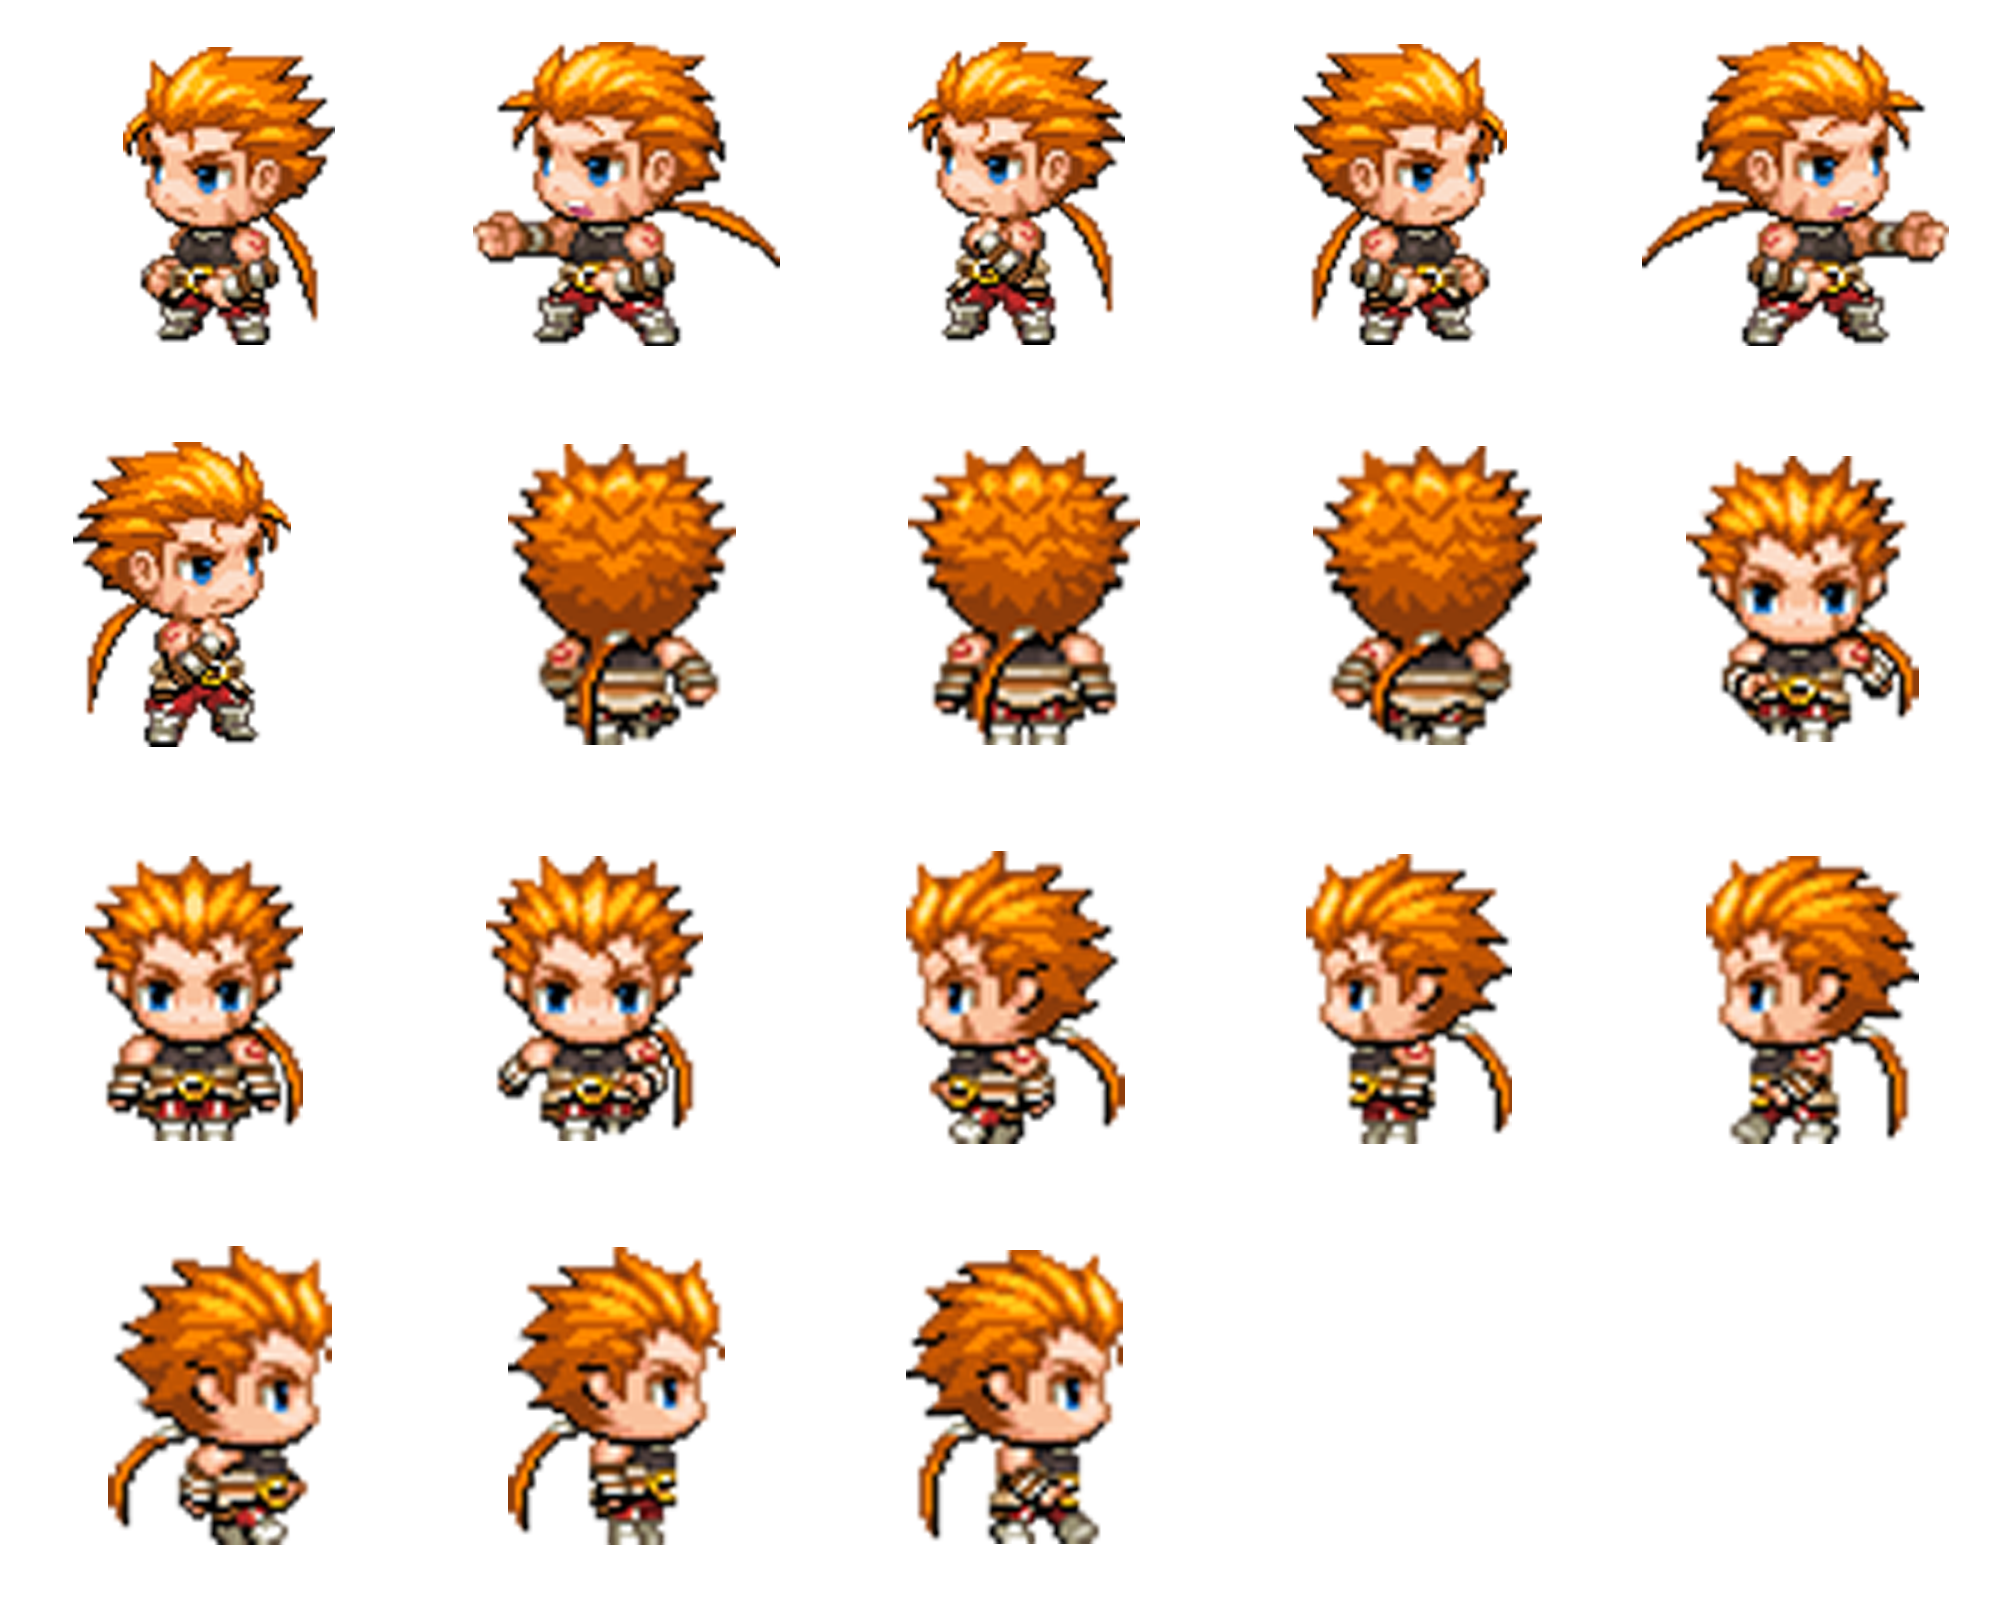
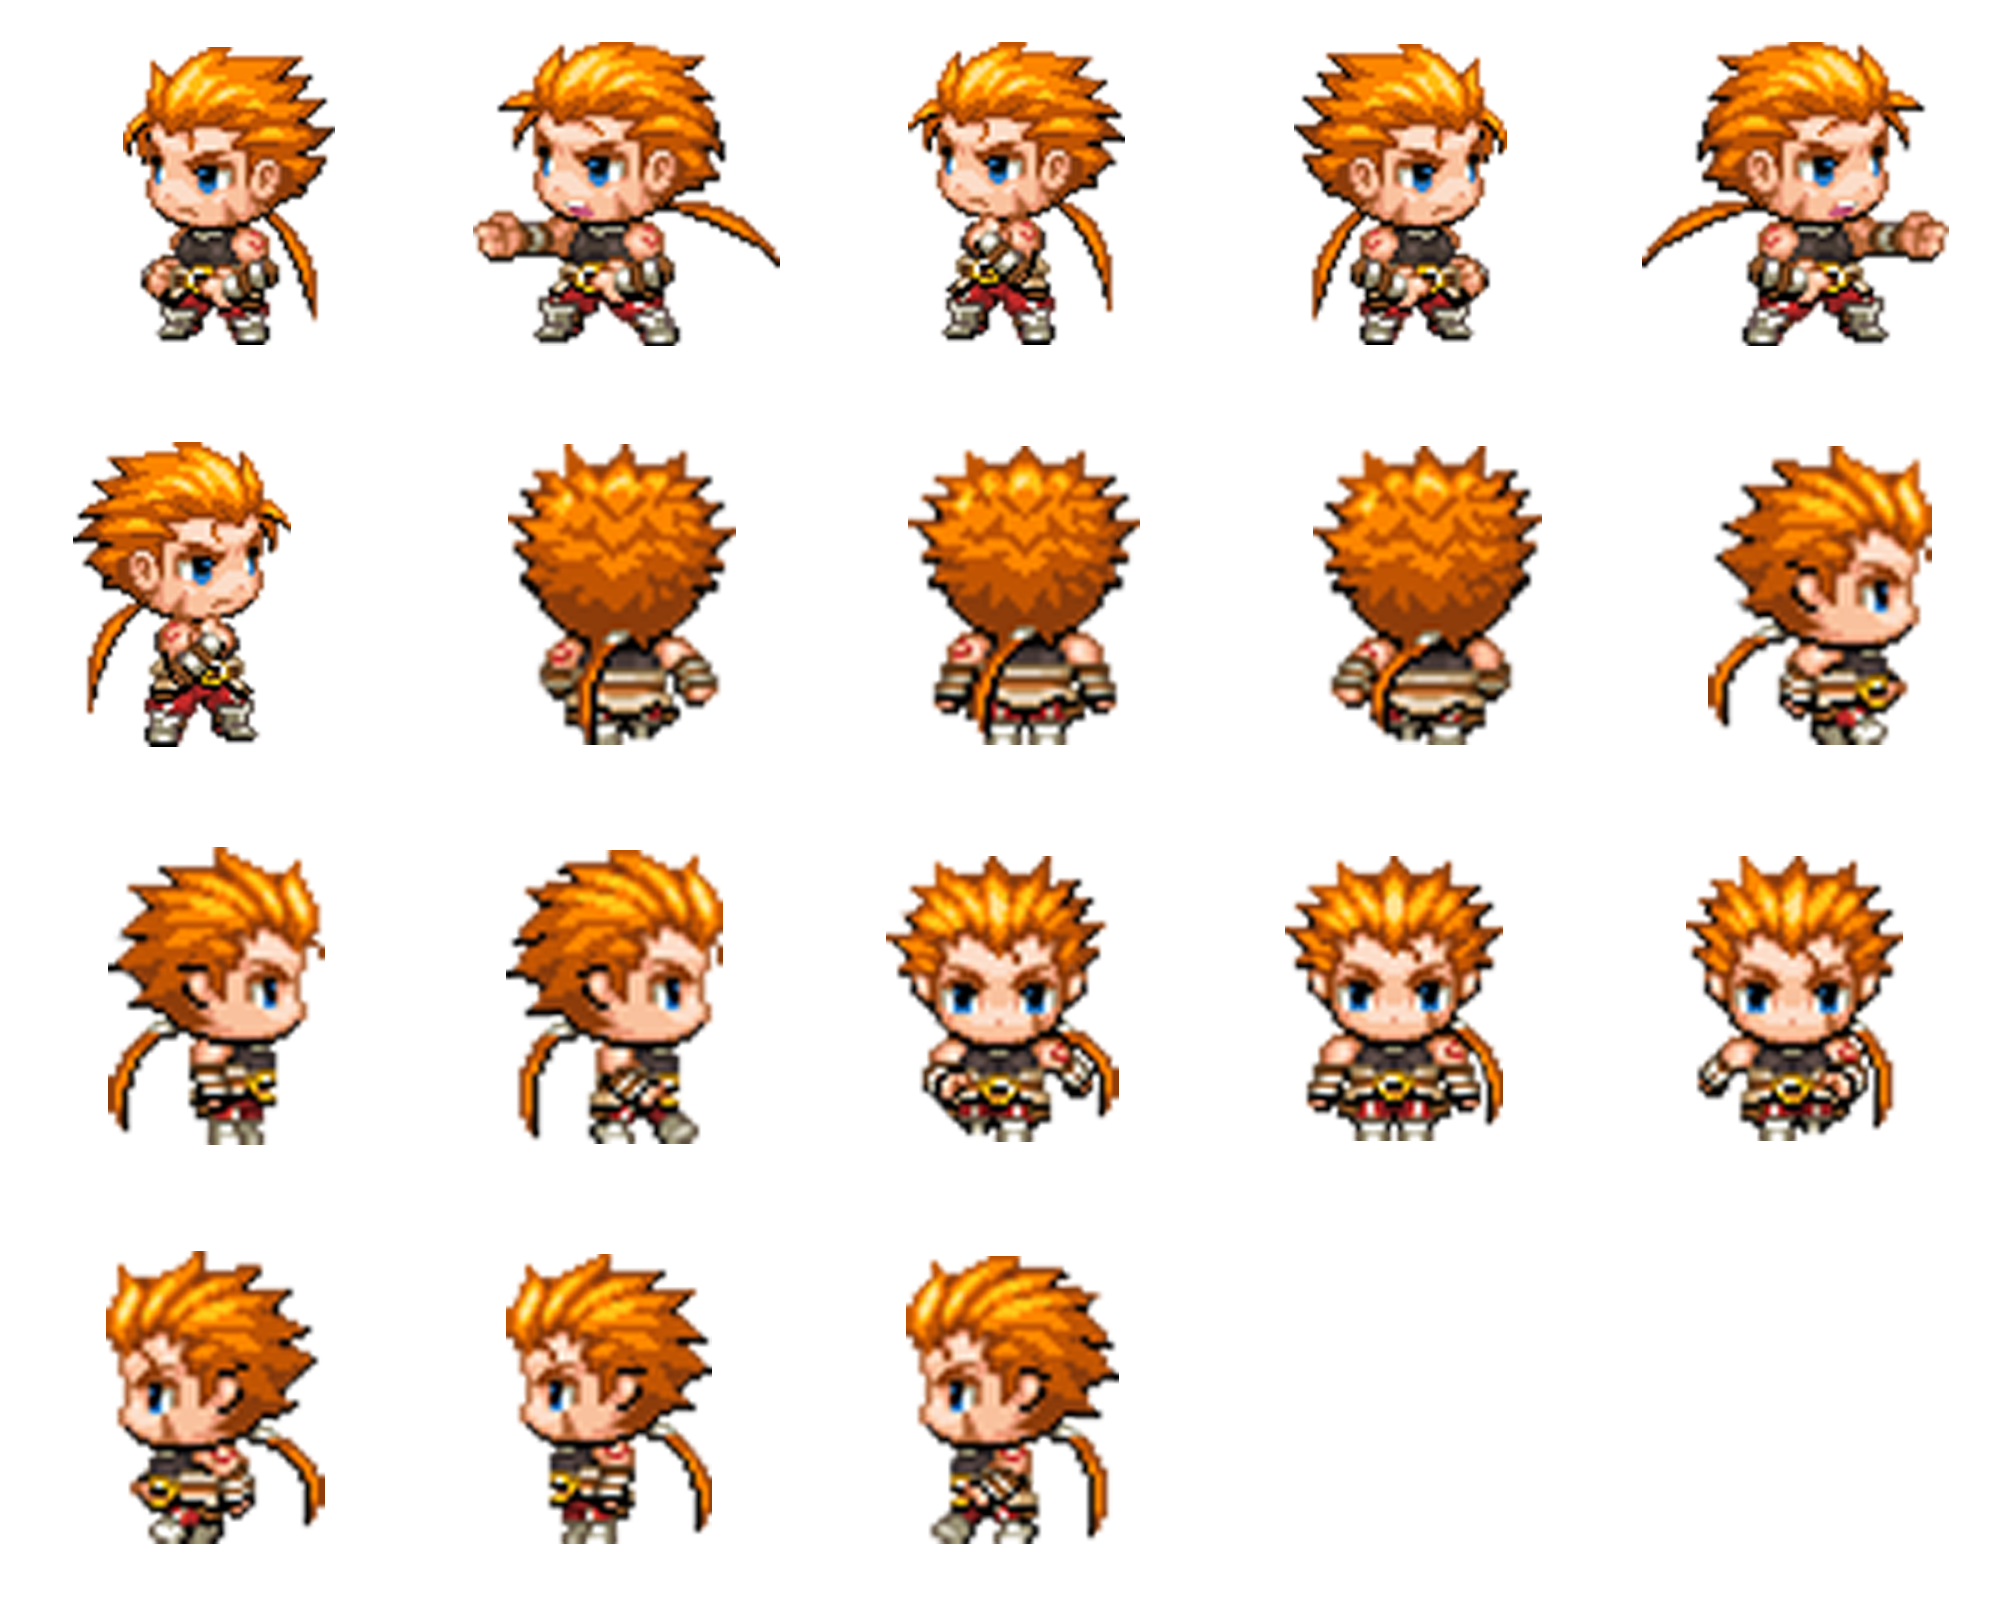
#121 Add walk and turn animation.

diff --git a/react-frontend/src/pages/Gaming/GamePanel/GamePanel.js b/react-frontend/src/pages/Gaming/GamePanel/GamePanel.js
@@ -41,6 +41,7 @@ export default class GamePanel extends Component {
     this.width = this.self.parentNode.clientWidth;
     this.aspectRatio = 1;
     this.height = this.width * this.aspectRatio;
+    const FPS = 7;
 
     window.addEventListener('resize', () => {
       const zoomLevel = this.self.parentNode.clientWidth / this.width;
@@ -53,8 +54,8 @@ export default class GamePanel extends Component {
     const width = this.width, height = this.height;
     const row = this.props.mapResource['width'], col = this.props.mapResource['height'];
 
-    const mapId = this.props.mapResource['id']
-    const mapIdt = this.props.mapResource['id_t']
+    const mapId = this.props.mapResource['id'];
+    const mapIdt = this.props.mapResource['id_t'];
 
     //Setup PIXI Canvas in componentDidMount
     this.renderer = PIXI.autoDetectRenderer(width, height);
@@ -74,7 +75,7 @@ export default class GamePanel extends Component {
 
     let gameScene, id, chaId, gameover;
 
-    let mCharacter;
+    let mCharacter, mPhase;
 
     const gpJson = `${process.env.PUBLIC_URL}/img/sources/gamePic.json`
     const chaJson = `${process.env.PUBLIC_URL}/img/character/character.json`
@@ -91,6 +92,12 @@ export default class GamePanel extends Component {
 
     function convertY(x) {
       return parseInt(x * height / col - height / col / 2);
+    }
+
+    function updatePhase(x) {
+      x = parseInt(x);
+      if (x === 3) return 1;
+      return x;
     }
 
     //This `setup` function will run when the image has loaded
@@ -126,7 +133,9 @@ export default class GamePanel extends Component {
 
       chaId = resources[chaJson].textures;
 
-      mCharacter = new Sprite(chaId['22.png']);
+      const baseDir = mainControl.player.character.dir;
+      mPhase = 1 * FPS; 
+      mCharacter = new Sprite(chaId[`${10 + baseDir * 10 + updatePhase(mPhase / FPS)}.png`]);
 
       mCharacter.width = width / 10;
       mCharacter.height = height / 8;
@@ -154,6 +163,8 @@ export default class GamePanel extends Component {
     function play() {
       const player = mainControl.player;
       const status = player.getStatus();
+      const baseDir = player.character.dir;
+
       if (status === 0) {
         const px = convertX(player.character.pos['y']),
               py = convertY(player.character.pos['x']);
@@ -168,6 +179,9 @@ export default class GamePanel extends Component {
           else if (px < mCharacter.x) mCharacter.x--;
           else if (py > mCharacter.y) mCharacter.y++;
           else if (py < mCharacter.y) mCharacter.y--;
+          mCharacter.texture = chaId[`${10 + baseDir * 10 + updatePhase(mPhase / FPS)}.png`];
+          mPhase = (mPhase + 1) % (4 * FPS);
+          console.log(mPhase);
         }
         else {
           player.nextStep();
